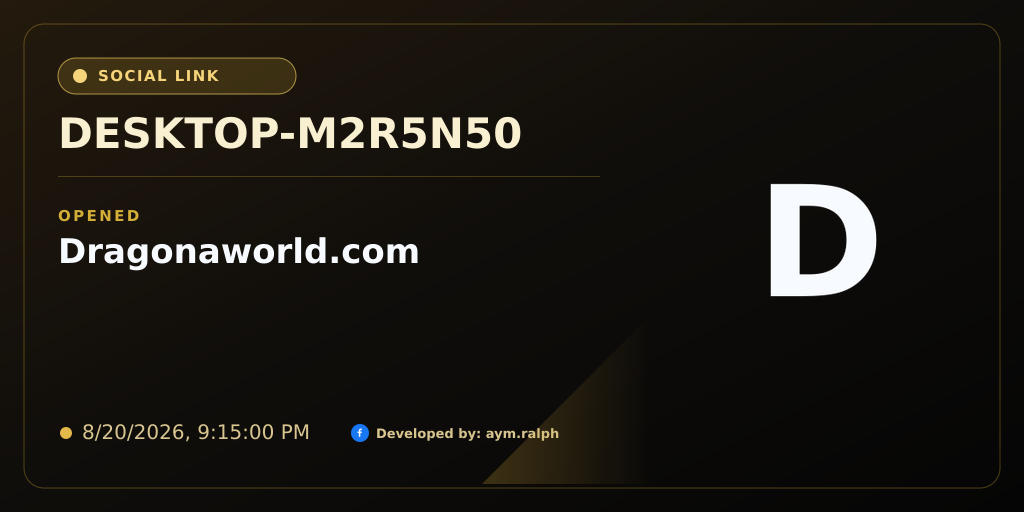
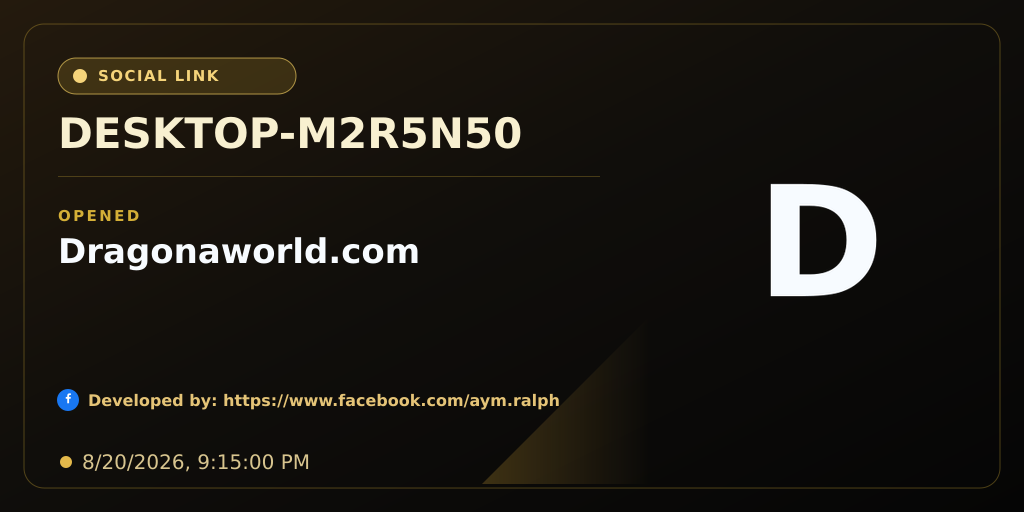
Update monitor logic and refresh sample screenshots
Replit-Commit-Author: Agent

Changed region(s): [[0.0312, 0.75, 0.5625, 0.9375]]

diff --git a/balok/electron/monitor.js b/balok/electron/monitor.js
@@ -231,9 +231,9 @@ function createCardSvg({ pcName, gameName, itemName, alertType, timestamp, trans
       <rect x="646" y="28" width="350" height="456" rx="22" fill="#080706"/>
       <rect x="646" y="28" width="350" height="456" rx="22" fill="none" stroke="#d4af37" stroke-opacity=".66"/>`
   const facebookCredit = `
-    <circle cx="360" cy="433" r="9" fill="#1877F2"/>
-    <path d="M13.45 19v-6.05h2.03l.3-2.35h-2.33V9.1c0-.68.19-1.14 1.17-1.14h1.25V5.86c-.22-.03-.96-.09-1.83-.09-1.81 0-3.05 1.1-3.05 3.14v1.69H9v2.35h1.99V19h2.46Z" transform="translate(352 425) scale(.62)" fill="#fff"/>
-    <text x="376" y="438" fill="#d8c58f" font-family="Arial, sans-serif" font-size="13" font-weight="700">Developed by: aym.ralph</text>`
+    <circle cx="68" cy="400" r="11" fill="#1877F2"/>
+    <path d="M13.45 19v-6.05h2.03l.3-2.35h-2.33V9.1c0-.68.19-1.14 1.17-1.14h1.25V5.86c-.22-.03-.96-.09-1.83-.09-1.81 0-3.05 1.1-3.05 3.14v1.69H9v2.35h1.99V19h2.46Z" transform="translate(59 389) scale(.75)" fill="#fff"/>
+    <text x="88" y="406" fill="#e5c477" font-family="Arial, sans-serif" font-size="16" font-weight="700">Developed by: https://www.facebook.com/aym.ralph</text>`
 
   return `<svg width="1024" height="512" viewBox="0 0 1024 512" xmlns="http://www.w3.org/2000/svg">
     <defs>
@@ -259,8 +259,8 @@ function createCardSvg({ pcName, gameName, itemName, alertType, timestamp, trans
     <rect x="58" y="176" width="542" height="1" fill="#d4af37" fill-opacity=".28"/>
     <text x="58" y="221" fill="#d4af37" font-family="Arial, sans-serif" font-size="15" font-weight="700" letter-spacing="2.4">OPENED</text>
     ${itemText}
-    <circle cx="66" cy="433" r="6" fill="#e4b94b"/>
-    <text x="82" y="439" fill="#d8c58f" font-family="Arial, sans-serif" font-size="20">${escapeHtml(timestamp)}</text>
+    <circle cx="66" cy="462" r="6" fill="#e4b94b"/>
+    <text x="82" y="469" fill="#d8c58f" font-family="Arial, sans-serif" font-size="20">${escapeHtml(timestamp)}</text>
     ${facebookCredit}
     <path d="M482 484 L650 316 L650 484 Z" fill="url(#artGlow)" opacity=".44"/>
     ${artworkFrame}
@@ -318,7 +318,7 @@ async function createAlertCard(imagePath, cardDetails) {
 }
 
 async function sendTelegramGameAlert(botToken, chatId, text, imagePath, cardDetails) {
-  const developerCaption = '<a href="https://www.facebook.com/aym.ralph">Developed by: aym.ralph</a>'
+  const developerCaption = '<a href="https://www.facebook.com/aym.ralph">https://www.facebook.com/aym.ralph</a>'
   try {
     let card
     try {
@@ -371,7 +371,7 @@ function buildAlertText(details) {
     'Opened <b>' + escapeHtml(details.itemName || details.gameName) + '</b>',
     '🕒 ' + escapeHtml(details.timestamp),
   ]
-  return `${lines.join('\n')}\n\n<a href="https://www.facebook.com/aym.ralph">Developed by: aym.ralph</a>`
+  return `${lines.join('\n')}\n\n<a href="https://www.facebook.com/aym.ralph">https://www.facebook.com/aym.ralph</a>`
 }
 
 function reportGameLaunch(settingsPath, otaConfigPath, gameInfo = {}, settingsOverride = null) {

diff --git a/walok/electron/monitor.js b/walok/electron/monitor.js
@@ -231,9 +231,9 @@ function createCardSvg({ pcName, gameName, itemName, alertType, timestamp, trans
       <rect x="646" y="28" width="350" height="456" rx="22" fill="#080706"/>
       <rect x="646" y="28" width="350" height="456" rx="22" fill="none" stroke="#d4af37" stroke-opacity=".66"/>`
   const facebookCredit = `
-    <circle cx="360" cy="433" r="9" fill="#1877F2"/>
-    <path d="M13.45 19v-6.05h2.03l.3-2.35h-2.33V9.1c0-.68.19-1.14 1.17-1.14h1.25V5.86c-.22-.03-.96-.09-1.83-.09-1.81 0-3.05 1.1-3.05 3.14v1.69H9v2.35h1.99V19h2.46Z" transform="translate(352 425) scale(.62)" fill="#fff"/>
-    <text x="376" y="438" fill="#d8c58f" font-family="Arial, sans-serif" font-size="13" font-weight="700">Developed by: aym.ralph</text>`
+    <circle cx="68" cy="400" r="11" fill="#1877F2"/>
+    <path d="M13.45 19v-6.05h2.03l.3-2.35h-2.33V9.1c0-.68.19-1.14 1.17-1.14h1.25V5.86c-.22-.03-.96-.09-1.83-.09-1.81 0-3.05 1.1-3.05 3.14v1.69H9v2.35h1.99V19h2.46Z" transform="translate(59 389) scale(.75)" fill="#fff"/>
+    <text x="88" y="406" fill="#e5c477" font-family="Arial, sans-serif" font-size="16" font-weight="700">Developed by: https://www.facebook.com/aym.ralph</text>`
 
   return `<svg width="1024" height="512" viewBox="0 0 1024 512" xmlns="http://www.w3.org/2000/svg">
     <defs>
@@ -259,8 +259,8 @@ function createCardSvg({ pcName, gameName, itemName, alertType, timestamp, trans
     <rect x="58" y="176" width="542" height="1" fill="#d4af37" fill-opacity=".28"/>
     <text x="58" y="221" fill="#d4af37" font-family="Arial, sans-serif" font-size="15" font-weight="700" letter-spacing="2.4">OPENED</text>
     ${itemText}
-    <circle cx="66" cy="433" r="6" fill="#e4b94b"/>
-    <text x="82" y="439" fill="#d8c58f" font-family="Arial, sans-serif" font-size="20">${escapeHtml(timestamp)}</text>
+    <circle cx="66" cy="462" r="6" fill="#e4b94b"/>
+    <text x="82" y="469" fill="#d8c58f" font-family="Arial, sans-serif" font-size="20">${escapeHtml(timestamp)}</text>
     ${facebookCredit}
     <path d="M482 484 L650 316 L650 484 Z" fill="url(#artGlow)" opacity=".44"/>
     ${artworkFrame}
@@ -318,7 +318,7 @@ async function createAlertCard(imagePath, cardDetails) {
 }
 
 async function sendTelegramGameAlert(botToken, chatId, text, imagePath, cardDetails) {
-  const developerCaption = '<a href="https://www.facebook.com/aym.ralph">Developed by: aym.ralph</a>'
+  const developerCaption = '<a href="https://www.facebook.com/aym.ralph">https://www.facebook.com/aym.ralph</a>'
   try {
     let card
     try {
@@ -371,7 +371,7 @@ function buildAlertText(details) {
     'Opened <b>' + escapeHtml(details.itemName || details.gameName) + '</b>',
     '🕒 ' + escapeHtml(details.timestamp),
   ]
-  return `${lines.join('\n')}\n\n<a href="https://www.facebook.com/aym.ralph">Developed by: aym.ralph</a>`
+  return `${lines.join('\n')}\n\n<a href="https://www.facebook.com/aym.ralph">https://www.facebook.com/aym.ralph</a>`
 }
 
 function reportGameLaunch(settingsPath, otaConfigPath, gameInfo = {}, settingsOverride = null) {
